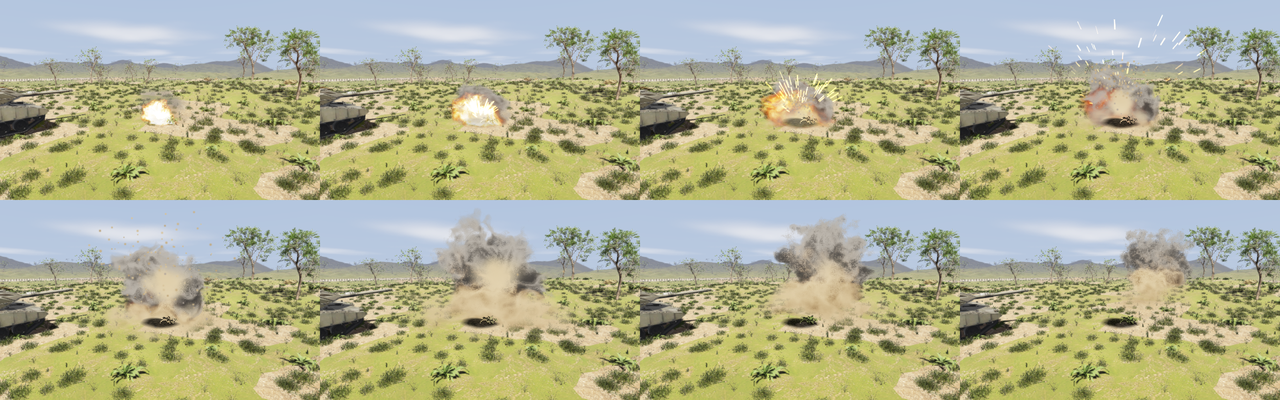
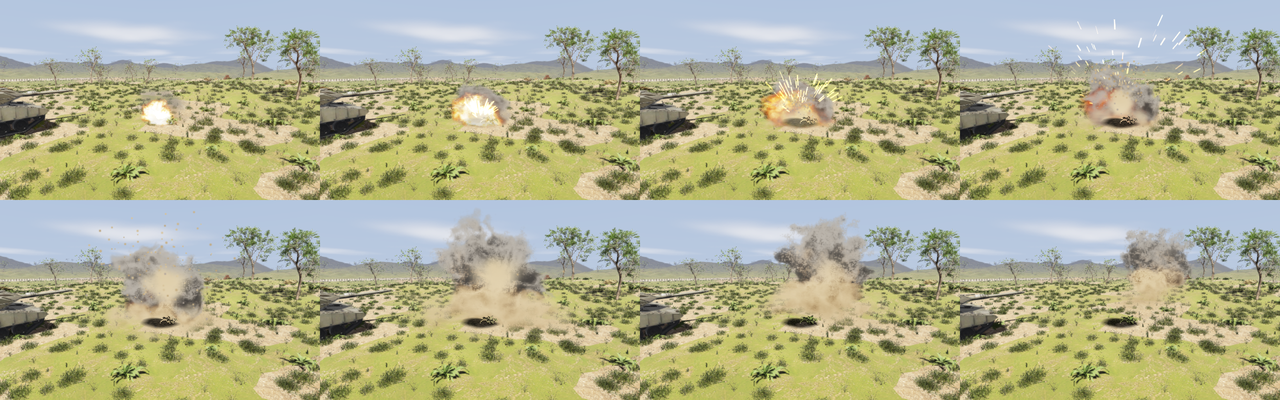
docs: explosion volumes at half resolution, sleeping robots wake on new PD targets
Explosions.md documents volumeDownsample and the new costs; the explosion
sequence and water-and-fire showcase images are rendered again with the
half-resolution march. Changelog entries for the rayrai and RaiSim changes
and for Tank Survival's steering and camera.

diff --git a/docs/sections/changelog/v2.13.md b/docs/sections/changelog/v2.13.md
@@ -9,6 +9,7 @@
 - Ray tests (`rayTest()`, lidars, projectiles and the blast's line of sight) are faster in worlds with many static bodies: the static bodies keep their BVH while none of them moves, and only the moving bodies are sorted into a tree again when bodies move. Results are bit-identical. A projectile volley over 1000 static bodies steps 34% faster; in the tank survival game, rebuilding the BVH took a sixth of each battle step and now takes 2%.
 - `Mat`'s initializer-list constructor reports an oversized list out of line, so the constructor inlines without link-time optimization: RaiSim in the WebAssembly SDK steps as fast as with LTO (a contact-heavy scene went from 649 to 358 µs per step).
 - raisimPy binds explosions, projectiles and the `blast` model (`raisimpy.blast.wave()`).
+- Fixed: an articulated system that had come to rest and fallen asleep ignored new PD targets and gains, so a parked robot stayed put however its joints were commanded until something else woke it. `setPdTarget()`, `setPTarget()`, `setDTarget()`, `setPGains()`, `setDGains()`, `setPdGains()` and `setControlMode()` wake it when they change a value, as a force does; setting the same values again lets it sleep.
 
 **Rayrai**
 
@@ -23,6 +24,7 @@
 - Rayrai does less work for the same image: a river's bed is read back from the GPU only after it changes, the sky that water reflects is drawn into its cubemap again only when the sky changes (a generated weather sky included), and all explosion volumes of a frame take one instanced draw instead of one draw each. Shaders keep the locations of up to 128 uniform names (from 32), and instanced passes classify each foliage batch once. `WaterDiagnostics::skyCaptures` counts the sky captures. On the desktop, Tank Survival's levels render 7–13% faster (RTX 5070, 1600×900); simulation and images are unchanged.
 - Explosion smoke and dust fetch their noise only where it can change them (past the reach of a cloud's lobes, its dust column or the dust rolling along the ground, no noise brings smoke in), for the same image: looking into the dust of a dozen ground bursts, the volumes draw 22% faster on an RTX 5070 at 1600×900 (13.4 to 10.4 ms), and Tank Survival's dustiest frame (Frozen Ridge under a smoke screen and mortar fire) renders in 11.1 ms instead of 15.7. The new `rayrai_explosion_volume_benchmark` measures it.
 - An explosion effect added with `addExplosionEffect()` before a window's first frame is drawn: it starts by the world's clock, where it used to start by the wall clock and be dropped at the first render.
+- Explosion fire and smoke are marched at half the image's width and height (`ExplosionEffectSettings::volumeDownsample`, 1 to 4, default 2) and blended into the image along its depth: each marched pixel stops at the nearest scene depth it covers, and each image pixel takes the marched pixels whose depth matches its own, so that smoke behind a nearer object does not spill over its edges or over objects thinner than a marched pixel. They cost about a third as much for nearly the same image: on an RTX 5070 at 1600×900, a smoke screen across the view adds 1.1 ms to the frame instead of 3.7 ms, and looking into the dust of a dozen ground bursts 3.0 ms instead of 10.4 (`rayrai_explosion_volume_benchmark` now reports both). Tank Survival's smoke screens and artillery no longer slow the game down on smaller GPUs and high-density screens, where the full-resolution march grew with the pixel count.
 - New example: [Tank Battle](../examples/rayrai/rayrai_tank_battle.md), a tracked tank firing shells at crates, walls and chain-detonating fuel barrels.
 
 **Browser (WebAssembly)**
@@ -44,6 +46,8 @@
 - Fixed: a tank that drove into Ruined Town's canal could not climb out of it (its walls were three times as steep as a river's banks), which left the level stuck. The canal's banks are now as gentle as the rivers'; `tank_survival_test` checks that every river can be climbed out of.
 - Fixed: Tank Survival's Fast render quality was washed out (the preset shades without tone mapping, and the game's sun is lit for the tone-mapped PBR path). Fast keeps the tone-mapped PBR path with the lighter core shading: Green Valley takes 1.7 ms of GPU time per frame instead of 1.5 (Balanced 2.7) on an RTX 5070 at 1600×900.
 - Tank Survival in the browser keeps the best score of each level between visits, in the page's local storage.
+- Fixed: Tank Survival's tanks barely turned while driving (`W` with `A` or `D` went on straight). The rigid hull bounced from bump to bump over the rough ground, airborne half the time at full speed, and its sprockets and idlers touched the ground at the far ends of the tracks, so the tracks had no grip to steer with. Each track now runs on a carrier sprung under the hull (it rises and pitches on springs), and the sprocket and idler ride above the road wheels as on a real tank: driving over rough ground, the player's tank turns at 12–60 degrees a second instead of 0–4, and every vehicle steers. A battle step takes about 30% longer. `tank_survival_test` drives each vehicle over rough ground and checks that it turns.
+- Tank Survival's camera turns only when the player turns it. A right-button drag turns it at once and it stops where the mouse stops (it followed the hull with a lag that carried on after the drag). The hull turns under it, so the point under the cursor, and the turret's aim, stay put while the tank turns, and `C` swings the camera behind the tank.
 - Tank Survival picks a lower render quality on a slow computer: while the main menu's level draws at under 30 frames a second, the menu steps the quality down and says so, until the player picks one. The game keeps real time down to 25 frames a second (it slowed down below 42).
 - Tank Survival shows a loading screen with the stage it is in, draws grass farther (60 to 170 m by render quality) and keeps finer tree and shrub meshes at a distance, and builds its levels a quarter faster with the same result.
 - Tank Survival is playable on the website, at [raisim.com/games/tank-survival](https://raisim.com/games/tank-survival/), and its rayrai example page and gallery tile have a **Run on web** button that opens it: the website lists the games it publishes in `games/games.tsv`, which the documentation reads like the browser tools' example lists. Documentation pages also describe themselves to the sites links to them are shared on: each has its own card title, description and address.

diff --git a/docs/sections/rayrai/Explosions.md b/docs/sections/rayrai/Explosions.md
@@ -77,6 +77,7 @@ Without it, the first shot stalls a frame while they compile, for about a second
 | `sizeScale` | 1 | Multiplies the size of fireballs and smoke clouds. |
 | `smokeLifetime` | 8 s | How long the smoke of a 1 kg charge lasts. |
 | `marchSteps` | 32 | Samples per pixel through fire and smoke (8 to 64): fewer cost less and look grainier. |
+| `volumeDownsample` | 2 | Fire and smoke are marched at 1/n of the image's width and height (1 to 4) and blended into it along its depth, so that they stay behind nearer objects: 2 costs about a quarter of 1. |
 | `sparks` | `true` | Throw sparks, debris and dust. |
 | `flashLight` | `true` | Light the surroundings with the brightest fireball. |
 | `scorchMarks` | `true` | Leave scorch marks under ground bursts. |
@@ -122,9 +123,13 @@ replayed after a restore gets its effect even when it reuses an identifier. Effe
 `clearExplosionEffects()` stay removed. In the browser the effects draw through the WebGPU backend like
 the rest of the scene.
 
-The fireball and smoke cost a ray march over the pixels they cover: at 32 steps a cloud of smoke filling
-about a third of a 1600 x 900 frame adds 1.2 ms to the frame on an RTX 5070. The march fetches the noise
-only where it can change the density, so the empty reaches of a volume's bounding sphere cost less than
-its cloud. The worst case is a camera inside overlapping clouds: looking into the dust of a dozen ground
-bursts (`rayrai_explosion_volume_benchmark`) adds 10.4 ms at 1600 x 900 on an RTX 5070; fewer
-`marchSteps` make it cheaper and grainier.
+The fireball and smoke cost a ray march over the pixels they cover, so rayrai marches them at half the
+image's width and height (`volumeDownsample`) and blends the result into the image. Each marched pixel
+stops at the nearest scene depth among the image pixels it covers, and each image pixel takes the four
+nearest marched pixels, weighted by how close the depth each one stopped at is to its own: smoke behind a
+tank does not spill over its edges, nor over a gun barrel or a branch thinner than a marched pixel. The march fetches the noise only where it can change
+the density, so the empty reaches of a volume's bounding sphere cost less than its cloud. On an RTX 5070
+at 1600 x 900 with 32 steps, a smoke screen across half the view adds 1.1 ms to the frame (3.7 ms when
+marched at full resolution). The worst case is a camera inside overlapping clouds: looking into the dust of a
+dozen ground bursts (`rayrai_explosion_volume_benchmark`) adds 3.0 ms (10.4 ms at full resolution).
+Fewer `marchSteps` make it cheaper and grainier.
